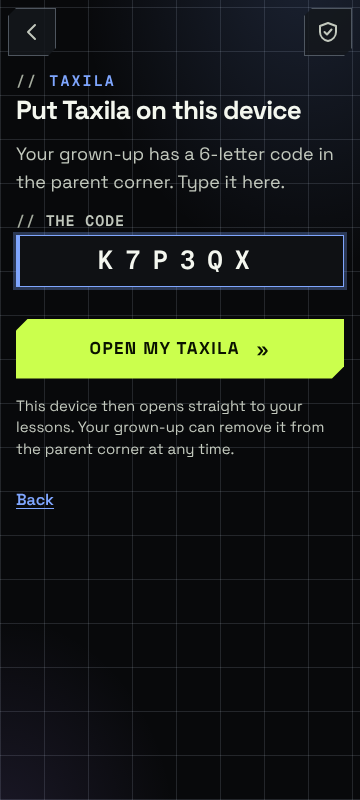
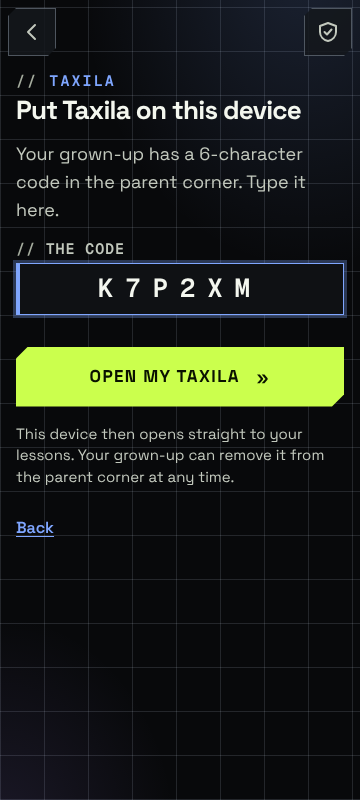
r7 E App: pairing on Platform's real routes — the device boots from tx_paired + /api/child/boot (cut to the one child), DELETE ?id= unpair, pairedAt, pair.invalid/rate_limited, 'Ask your parent to sign in', unpaired → /pair gently
Claude-Session: https://claude.ai/code/session_01Uk49c2MmSpb9CU49GhQaZc

Changed region(s): [[0.0306, 0.1875, 0.9778, 0.6875]]

diff --git a/src/app/pair.ts b/src/app/pair.ts
@@ -5,9 +5,11 @@
 // can revoke. Routes are Platform's (server/auth.js):
 //   POST   /api/pair/code { childId }   → { code, expiresAt }      parent-authenticated; 6 chars, 10 minutes, one use
 //   POST   /api/pair/redeem { code }    → { childId, name } + cookie   no auth; rate-limited; a wrong code says nothing
-//   GET    /api/pair/devices?childId=   → { devices: PairedDevice[] }   parent-authenticated
-//   DELETE /api/pair/devices/:id        → { ok }                     parent-authenticated; the session ends server-side
-// A child session's GET /api/me answers { scope: "child", guardian: null, children: [that child] } (App's ask to Platform).
+//   GET    /api/pair/devices?childId=   → { devices: PairedDevice[] }   parent-authenticated, newest first
+//   DELETE /api/pair/devices?id=        → { ok }                     parent-authenticated; the session ends server-side
+// (Platform's routes, claude/r7-platform 703b1968.) A wrong, used or expired code is one 400 { code: "pair.invalid" };
+// too many tries 429 { code: "pair.rate_limited" }. The device boots child mode from the readable tx_paired cookie
+// (src/app/device.ts), never from /api/me, which refuses a device-only browser (403 scope.child_device).
 import { ApiError, getJson, postJson, request } from "./api.ts";
 
 /** The code alphabet: no 0/O and no 1/I (they are read aloud and typed on a phone). */
@@ -35,19 +37,20 @@ export function secondsLeft(expiresAt: string, now: number): number {
   return Number.isFinite(t) ? Math.max(0, Math.ceil((t - now) / 1000)) : 0;
 }
 
-export interface PairedDevice { id: string; label?: string | null; createdAt: string; lastSeenAt?: string | null }
+export interface PairedDevice { id: string; childId?: string; childName?: string; label?: string | null; pairedAt: string; lastSeenAt?: string | null }
 
 export const pairApi = {
   code: (childId: string) => postJson<{ code: string; expiresAt: string }>("/api/pair/code", { childId }),
   redeem: (code: string) => postJson<{ childId: string; name?: string }>("/api/pair/redeem", { code }),
   devices: (childId: string) => getJson<{ devices: PairedDevice[] }>(`/api/pair/devices?childId=${encodeURIComponent(childId)}`),
-  unpair: (id: string) => request<{ ok: boolean }>("DELETE", `/api/pair/devices/${encodeURIComponent(id)}`, {}),
+  unpair: (id: string) => request<{ ok: boolean }>("DELETE", `/api/pair/devices?id=${encodeURIComponent(id)}`, { id }),
 };
 
 /** PURE. A failed redeem → one sentence for the child (never which children exist). */
 export function redeemErrorOf(e: unknown, online = true): string {
   if (e instanceof ApiError) {
     if (e.status === 429) return "Too many tries. Wait a minute, then type the code again.";
+    if ((e.body as { code?: string } | null)?.code === "pair.rate_limited") return "Too many tries. Wait a minute, then type the code again.";
     if (e.status === 404 || e.status === 400 || e.status === 410) return "That code did not work. Ask your grown-up for a new one.";
     if (e.status === 0 || !online) return "You seem to be offline. Check the internet and try again.";
     return "Something went wrong. Try again.";

diff --git a/src/app/device.ts b/src/app/device.ts
@@ -1,0 +1,49 @@
+// A paired child device (r7 app-child-device-pairing; Platform's routes at claude/r7-platform 703b1968). The device holds
+// tx_child (HttpOnly, the child-scoped session) and tx_paired=<childId> (readable): the app boots child mode from the
+// readable cookie, never from /api/me, which answers a device-only browser 403 { code: "scope.child_device" }. The child's
+// record comes from GET /api/child/boot (a child route), cut to that one child: no guardian, no brothers or sisters.
+// A parent who signs in on the device wins (their session answers /api/me), so the corner opens only behind it.
+import { ApiError, getJson } from "../lesson/api.ts";
+
+export const PAIRED_COOKIE = "tx_paired";
+
+/** PURE. The child this device is paired to, from the readable cookie (null when there is none). */
+export function pairedChildId(cookie: string = typeof document !== "undefined" ? document.cookie : ""): string | null {
+  const m = new RegExp(`(?:^|;\\s*)${PAIRED_COOKIE}=([^;]+)`).exec(cookie);
+  const v = m ? decodeURIComponent(m[1]).trim() : "";
+  return /^[0-9a-zA-Z-]{8,64}$/.test(v) ? v : null;
+}
+
+/** A parent route refused on a paired device (show "ask your grown-up to sign in", never an error). */
+export const isChildDeviceRefusal = (e: unknown): boolean =>
+  e instanceof ApiError && e.status === 403 && (e.body as { code?: string } | null)?.code === "scope.child_device";
+
+/** PURE. The boot's `me` cut to the paired child: scope child, no guardian, only that child, no consents. null if absent. */
+export function childDeviceMeOf<T extends { children?: { id: string }[] }>(bootMe: T | null | undefined, childId: string):
+  (Omit<T, "children" | "guardian"> & { scope: "child"; guardian: null; children: NonNullable<T["children"]>; consents: [] }) | null {
+  const kids = (bootMe?.children ?? []).filter((c) => c.id === childId);
+  if (!bootMe || !kids.length) return null;
+  const { guardian: _g, consents: _c, ...rest } = bootMe as T & { guardian?: unknown; consents?: unknown };
+  return { ...(rest as Omit<T, "children" | "guardian">), scope: "child", guardian: null, children: kids as NonNullable<T["children"]>, consents: [] };
+}
+
+/** The paired child's Me on this device, read through the child route; null when this device is not paired. */
+export async function childDeviceMe<T extends { children?: { id: string }[] }>(): Promise<ReturnType<typeof childDeviceMeOf<T>>> {
+  const cid = pairedChildId();
+  if (!cid) return null;
+  const b = await getJson<{ me?: T }>(`/api/child/boot?childId=${encodeURIComponent(cid)}`);
+  return childDeviceMeOf<T>(b.me ?? null, cid);
+}
+
+/** /api/me, or on a paired device the paired child's Me. A device that was unpaired (its session ended) reads 401. */
+export async function meOrChildDevice<T extends { children?: { id: string }[] }>(read: () => Promise<T>): Promise<T> {
+  try {
+    return await read();
+  } catch (e) {
+    if (isChildDeviceRefusal(e) || (e instanceof ApiError && e.status === 401 && pairedChildId())) {
+      const m = await childDeviceMe<T>();
+      if (m) return m as unknown as T;
+    }
+    throw e;
+  }
+}

diff --git a/src/child/api.ts b/src/child/api.ts
@@ -2,6 +2,7 @@
 // (requireChild), so a cross-family id is a 404, never data. A failed read gives the screen's designed empty or
 // fallback state, never an error string aimed at the child (§4.7 "raw API strings are never shown").
 import { takeEarlyMe } from "../app/boot.ts";
+import { meOrChildDevice } from "../app/device.ts";
 import type { ChildMapResponse, ChildMapSkill, ChildMemoryDeleteRequest, ChildMemoryResponse, DidCard, HomeworkMatch, HomeworkMatchRequest, HomeworkMatchResponse, LessonSummary, MapState } from "../../shared/contracts.ts";
 import { tutorById } from "../../shared/tutors.js";
 import { ApiError, getJson, postJson } from "../lesson/api.ts";
@@ -22,14 +23,18 @@ export interface ChildRow {
   timing_multiplier?: number | null;
 }
 export interface MeResponse {
-  guardian: { id: string; email: string; name: string };
+  /** r7 device pairing: "child" on a paired child device (no guardian there). */
+  scope?: "parent" | "child";
+  guardian: { id: string; email: string; name: string } | null;
   children: ChildRow[];
 }
 
 /** /api/me for the child shell: the boot read index.html started (one hop with the plan), else a normal read. */
 export const getMe = () => {
   const early = takeEarlyMe<MeResponse>();
-  return early ? early.catch(() => getJson<MeResponse>("/api/me")) : getJson<MeResponse>("/api/me");
+  // r7 device pairing: on a paired child device /api/me is refused (scope.child_device): the child's own Me instead
+  const read = () => meOrChildDevice<MeResponse>(() => getJson<MeResponse>("/api/me"));
+  return early ? early.catch(read) : read();
 };
 
 export type { ChildMapResponse, ChildMapSkill, MapState };

diff --git a/src/child/ChildShell.tsx b/src/child/ChildShell.tsx
@@ -3,6 +3,7 @@
 // It writes data-band on <html> and on its own [data-v2] root, and data-theme: ALWAYS "light" for Young (b1/b2 are
 // light-only, `ds-band-fork-older`), the child's Light / Dark / Match phone choice for Older. No child-facing error
 // copy beyond the designed T8 line: a missing session asks for a grown-up.
+import { pairedChildId } from "../app/device.ts";
 import { createContext, useContext, useEffect, useMemo, useState, type ReactNode } from "react";
 import { Link, Outlet, useNavigate, useParams } from "react-router-dom";
 import { ApiError, getMe, type ChildRow, type MeResponse } from "./api.ts";
@@ -91,7 +92,12 @@ export function ChildShell({ children }: { children?: ReactNode }) {
         setMe(m);
         setState(m.children.some((c) => c.id === cid) ? "ok" : "missing");
       })
-      .catch((e) => live && setState(e instanceof ApiError && e.status === 401 ? "signedout" : "error"));
+      .catch((e) => {
+        if (!live) return;
+        // r7 device pairing: a paired device whose pairing ended (the parent unpaired it) goes back to /pair, gently
+        if (e instanceof ApiError && e.status === 401 && pairedChildId()) { nav("/pair?unpaired=1", { replace: true }); return; }
+        setState(e instanceof ApiError && e.status === 401 ? "signedout" : "error");
+      });
     return () => {
       live = false;
     };

diff --git a/src/app/api.ts b/src/app/api.ts
@@ -1,5 +1,6 @@
 // Account-level API used by the shell, onboarding, the picker and the Parent corner. Same-origin fetch with
 // the httpOnly guardian cookie (src/lesson/api.ts request helper); the client never holds a token.
+import { meOrChildDevice } from "./device.ts";
 import { ApiError, getJson, postJson } from "../lesson/api.ts";
 import { takeEarlyMe } from "./boot.ts";
 
@@ -24,7 +25,8 @@ let cached: Promise<Me | null> | null = null;
 export function loadMe(): Promise<Me | null> {
   if (!cached) {
     const early = takeEarlyMe<Me>();
-    const read = () => getJson<Me>("/api/me");
+    // r7 device pairing: a paired child device reads the child's own Me (device.ts), never the parent's
+    const read = () => meOrChildDevice<Me>(() => getJson<Me>("/api/me"));
     cached = (early ? early.catch(read) : read()).catch((e) => {
       cached = null;
       if (e instanceof ApiError && e.status === 401) return null;

diff --git a/src/app/ParentOnly.tsx b/src/app/ParentOnly.tsx
@@ -15,7 +15,7 @@ export function ParentOnly({ children }: { children: ReactNode }) {
   if (me?.scope !== "child") return <>{children}</>;
   const name = me.children[0]?.first_name ?? "your child";
   return (
-    <StepFrame step={null} title="Grown-ups only" why={`This device is set up for ${name}. The parent corner opens with your own sign-in.`} docTitle="Parent corner">
+    <StepFrame step={null} title="Ask your parent to sign in" why={`This device is set up for ${name}. The parent corner opens only with your grown-up's own sign-in.`} docTitle="Parent corner">
       <div className="stack" data-testid="parent-only">
         <Link to="/start/phone?login=1&next=/parent" className="btn btn-primary btn-block" data-testid="parent-only-signin">Sign in as the grown-up</Link>
         <Link to="/who" className="link-quiet">{`Back to ${name}'s lessons`}</Link>

diff --git a/src/app/PairCard.tsx b/src/app/PairCard.tsx
@@ -105,7 +105,7 @@ export function PairCard({ childId, name }: { childId: string; name: string }) {
         <ul className="pair-devices" aria-label={`${name}'s devices`} data-testid="pair-devices">
           {devices.map((d) => (
             <li key={d.id} className="pair-device">
-              <span>{d.label || "A device"}<span className="pa-meta">{` · added ${when(d.createdAt)}${d.lastSeenAt ? ` · last used ${when(d.lastSeenAt)}` : ""}`}</span></span>
+              <span>{d.label || "A device"}<span className="pa-meta">{` · added ${when(d.pairedAt)}${d.lastSeenAt ? ` · last used ${when(d.lastSeenAt)}` : ""}`}</span></span>
               {confirm === d.id ? (
                 <span className="pa-actions">
                   <Button small variant="secondary" onClick={() => void unpair(d.id)} data-testid="pair-unpair-yes">Remove it</Button>

diff --git a/src/app/Pair.tsx b/src/app/Pair.tsx
@@ -41,6 +41,7 @@ export default function Pair() {
   return (
     <StepFrame step={null} title="Put Taxila on this device" why="Your grown-up has a 6-character code in the parent corner. Type it here." docTitle="Put Taxila on this device">
       <form className="stack" onSubmit={submit} noValidate data-testid="pair-form">
+        {sp.get("unpaired") && <p className="t-note" role="status" data-testid="pair-unpaired">This device was unpaired. Ask your grown-up for a new code to use it again.</p>}
         <div className="field">
           <label htmlFor="pair-code">The code</label>
           <input id="pair-code" ref={field} className="input code-input" autoComplete="off" autoCapitalize="characters" spellCheck={false}

diff --git a/src/app/landing/Site.tsx b/src/app/landing/Site.tsx
@@ -54,6 +54,8 @@ export function useVisitor(): "new" | "signed-in" | "app" {
   useEffect(() => {
     if (app) return;
     // no session marker on this browser: nobody is signed in, so no GET /api/me (and no 401 on the public landing)
+    // r7 device pairing: a paired child device (tx_paired, no tx_in) is someone signed in here: "Go to Taxila"
+    if (/(?:^|; )tx_paired=/.test(document.cookie) && !/(?:^|; )tx_in=1/.test(document.cookie)) { setState("signed-in"); return; }
     if (!/(?:^|; )tx_in=1/.test(document.cookie)) return;
     let live = true;
     const run = () => {

diff --git a/docs/design/round7/app/PAIRING.md b/docs/design/round7/app/PAIRING.md
@@ -1,35 +1,44 @@
 # Putting Taxila on the child's own device (r7 App, 2026-11-08)
 
-The client is built (App) against main's route shape for Platform (server/auth.js). Until Platform's routes land, the
-client's calls return 404. The card then makes no code and shows "The code could not be made…". `/pair` says the code
-did not work.
+The client is built against Platform's routes at claude/r7-platform 703b1968 (draft PR #79).
 
-## The routes the client calls
+## Routes
 
 | Route | Auth | Answer |
 |---|---|---|
-| `POST /api/pair/code { childId }` | parent | `{ code, expiresAt }`. 6 characters from `ABCDEFGHJKLMNPQRSTUVWXYZ23456789` (no 0/O/1/I), 10 minutes, one use; a new code replaces the old one |
-| `POST /api/pair/redeem { code }` | none | `{ childId, name }` plus the child-scoped session cookie. Rate-limited per IP and per code; a wrong, used or expired code is a 400/404/410 that names nothing |
-| `GET /api/pair/devices?childId=` | parent | `{ devices: [{ id, label?, createdAt, lastSeenAt? }] }` |
-| `DELETE /api/pair/devices/:id` | parent | `{ ok }`. That device's session ends server-side at once |
+| `POST /api/pair/code { childId }` | parent | `{ code, expiresAt }`. 6 characters from `23456789ABCDEFGHJKLMNPQRSTUVWXYZ`, 10 minutes, one use; a new code replaces the old one |
+| `POST /api/pair/redeem { code, label? }` | none | `{ childId, name }`. Sets `tx_child=d.<token>` (HttpOnly) and `tx_paired=<childId>` (readable), 180 days. A wrong, used or expired code: `400 pair.invalid`. Too many tries: `429 pair.rate_limited` |
+| `GET /api/pair/devices[?childId=]` | parent | `{ devices: [{ id, childId, childName, label, pairedAt, lastSeenAt }] }`, newest first |
+| `DELETE /api/pair/devices?id=` (and the body `{ id }`) | parent | `{ ok: true }`. The device's next request is a 401 |
 
-## Two things the client also needs from Platform
+**On a device-only browser,** `/api/me` and every parent route answer `403 { code: "scope.child_device" }`. A parent who signs in on the device wins.
 
-1. **`GET /api/me` on a child-scoped session** answers `{ scope: "child", guardian: null, children: [that child only], consents: [] }`. A parent session may send `scope: "parent"` (absent is read as parent).
-   - **Who:** goes straight to that child, with no picker and no other names.
-   - **Parent corner:** `/parent/*` shows "Grown-ups only" with "Sign in as the grown-up" (`/start/phone?login=1&next=/parent`).
-   - **Sign-in screen:** treats the child session as no parent sign-in.
-2. **A separate cookie for the child session**, not the parent's session cookie. A grown-up who signs in on the paired device then does not erase the pairing, and signing out returns the device to the child.
-   - When both are present, `/api/me` answers the parent's.
-   - Parent routes accept only the parent's session. A child session on any parent route is a 401 or 403.
+## The client
 
-## Where it is in the app
-
-- **`/pair`** (`src/app/Pair.tsx`): the code field. Spaces, dashes and lower case are fine, and the read-alikes are dropped. A QR link's `?code=` goes on by itself. Success refreshes `/api/me` and opens `/c/{childId}`.
+- **Boot** (`src/app/device.ts`):
+  - When `/api/me` is refused with `scope.child_device` (or answers 401 while `tx_paired` is set), the app reads the paired child id from `tx_paired`.
+  - It then calls `GET /api/child/boot?childId=` and cuts the boot's `me` to `{ scope: "child", guardian: null, children: [that child], consents: [] }`.
+  - Both `loadMe` (`src/app/api.ts`) and the child shell's `getMe` (`src/child/api.ts`) go through it.
+- **Who:** opens the paired child at once.
+- **Parent corner:** `/parent/*` shows "Ask your parent to sign in", linking to the grown-up's own sign-in (`src/app/ParentOnly.tsx`). The sign-in screen treats the device session as no parent sign-in.
+- **The landing:** greets a paired device as signed in ("Go to Taxila").
+- **Unpaired:** a 401 in the child shell while `tx_paired` is set goes to `/pair?unpaired=1`, "This device was unpaired. Ask your grown-up for a new code to use it again."
+- **`/pair`** (`src/app/Pair.tsx`): the code field forgives case, spaces and dashes. A QR link's `?code=` goes on by itself. Success opens `/c/{childId}`.
 - **Parent corner, Children** (`src/app/PairCard.tsx`, one line in `src/parent/Pages.tsx`): "Put Taxila on {name}'s device".
-  - The code is shown large in two halves, with a QR to `{origin}/pair?code=` (`qrcode-generator`, loaded only then) and a countdown. "New code" and "Done".
-  - The device list has "Unpair", which asks once ("Remove it" / "Keep").
-- **Shell:** `Me.scope` and `guardian: null` (`src/app/api.ts`), Who, the `ParentOnly` guard (`src/app/ParentOnly.tsx`) and `Account.tsx`.
+  - The code is shown in two halves with a QR to `{origin}/pair?code=` (`qrcode-generator`, loaded only then), a countdown, "New code" and "Done".
+  - Paired devices show "{label} · added … · last used …" with "Unpair", which asks once.
 
-Shots: `shots-pair/` (the corner's code box, `/pair` typed and refused, and `/parent` on a paired device) at 360/412/1280.
+## For Platform
+
+`GET /api/child/boot` on a device-only browser answers the guardian's whole `me`: their email, and every child's name. The client
+keeps only the paired child, but the device still receives the rest. Cutting it server-side (the same shape the client builds)
+would keep a sibling's name and the parent's email off the child's device.
+
+Shots: `shots-pair/` at 360/412/1280:
+- the corner's code box;
+- `/pair` refused and typed;
+- the device's home (Riya only);
+- `/parent` on the device;
+- the unpaired note.
+
 Tests: `tests/r7-app-pair.test.mjs`.
